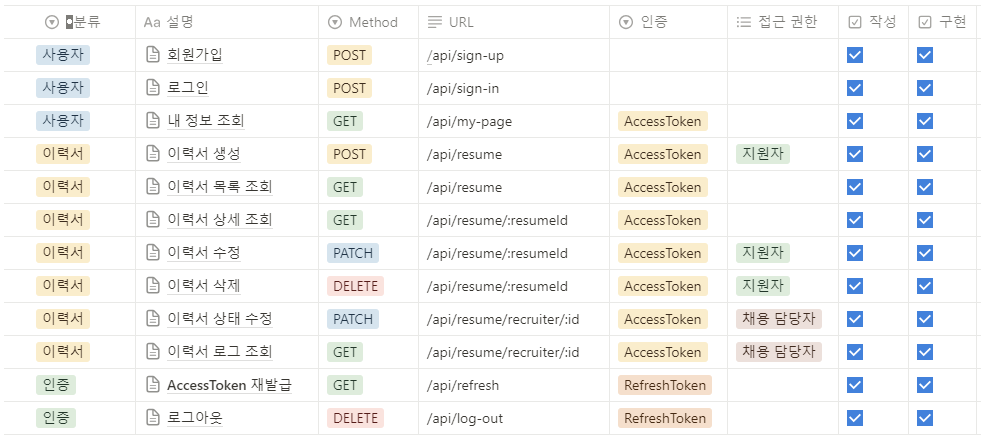
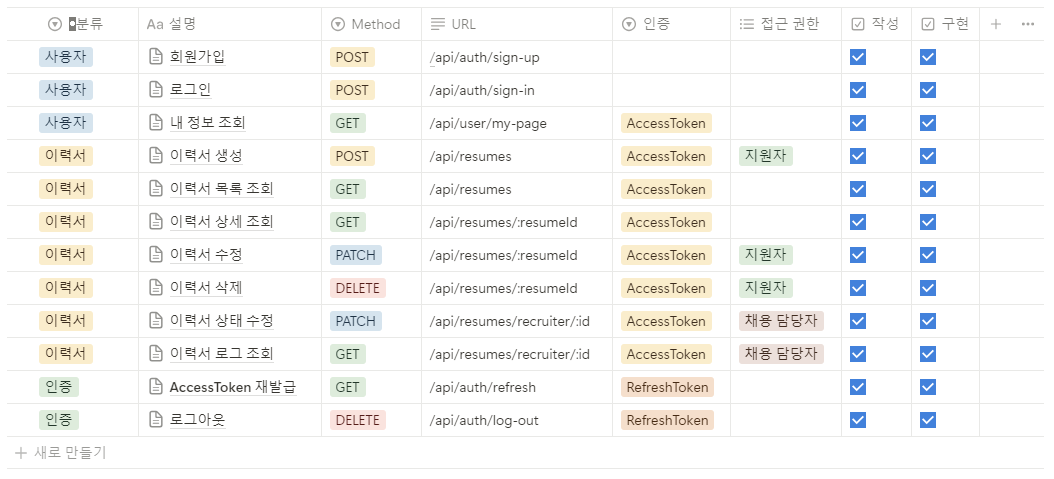
move: API, ERD 이미지 수정

diff --git a/src/repositories/resume.repository.js b/src/repositories/resume.repository.js
@@ -158,7 +158,7 @@ export class ResumeRepository {
           },
         });
 
-        return [resumeLog];
+        return resumeLog;
       },
       {
         isolationLevel: Prisma.TransactionIsolationLevel.ReadCommitted,
